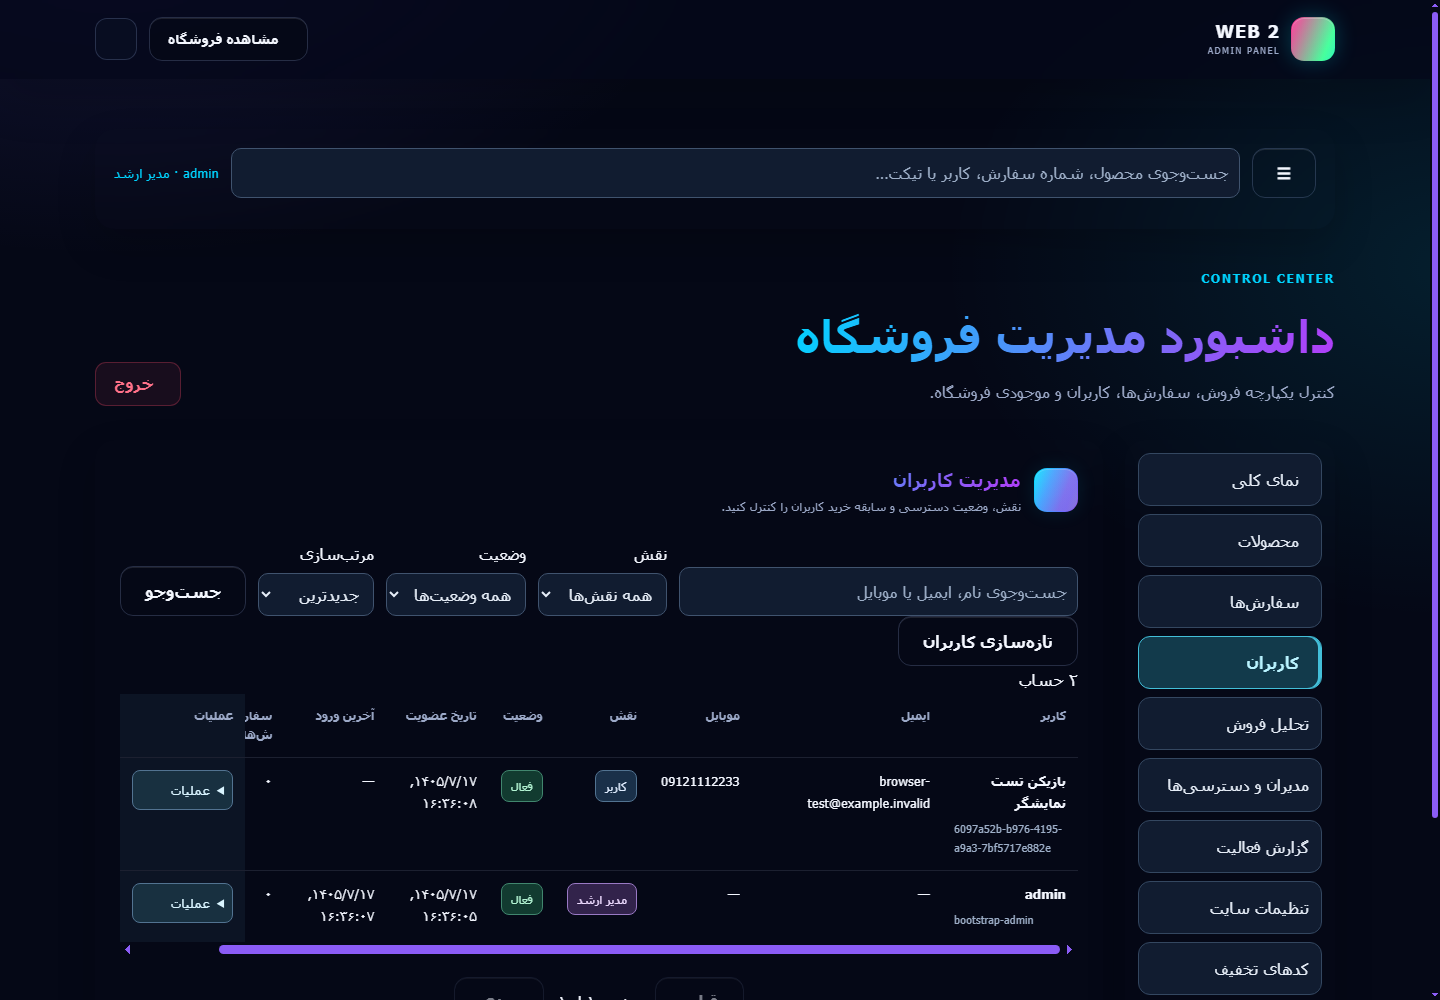
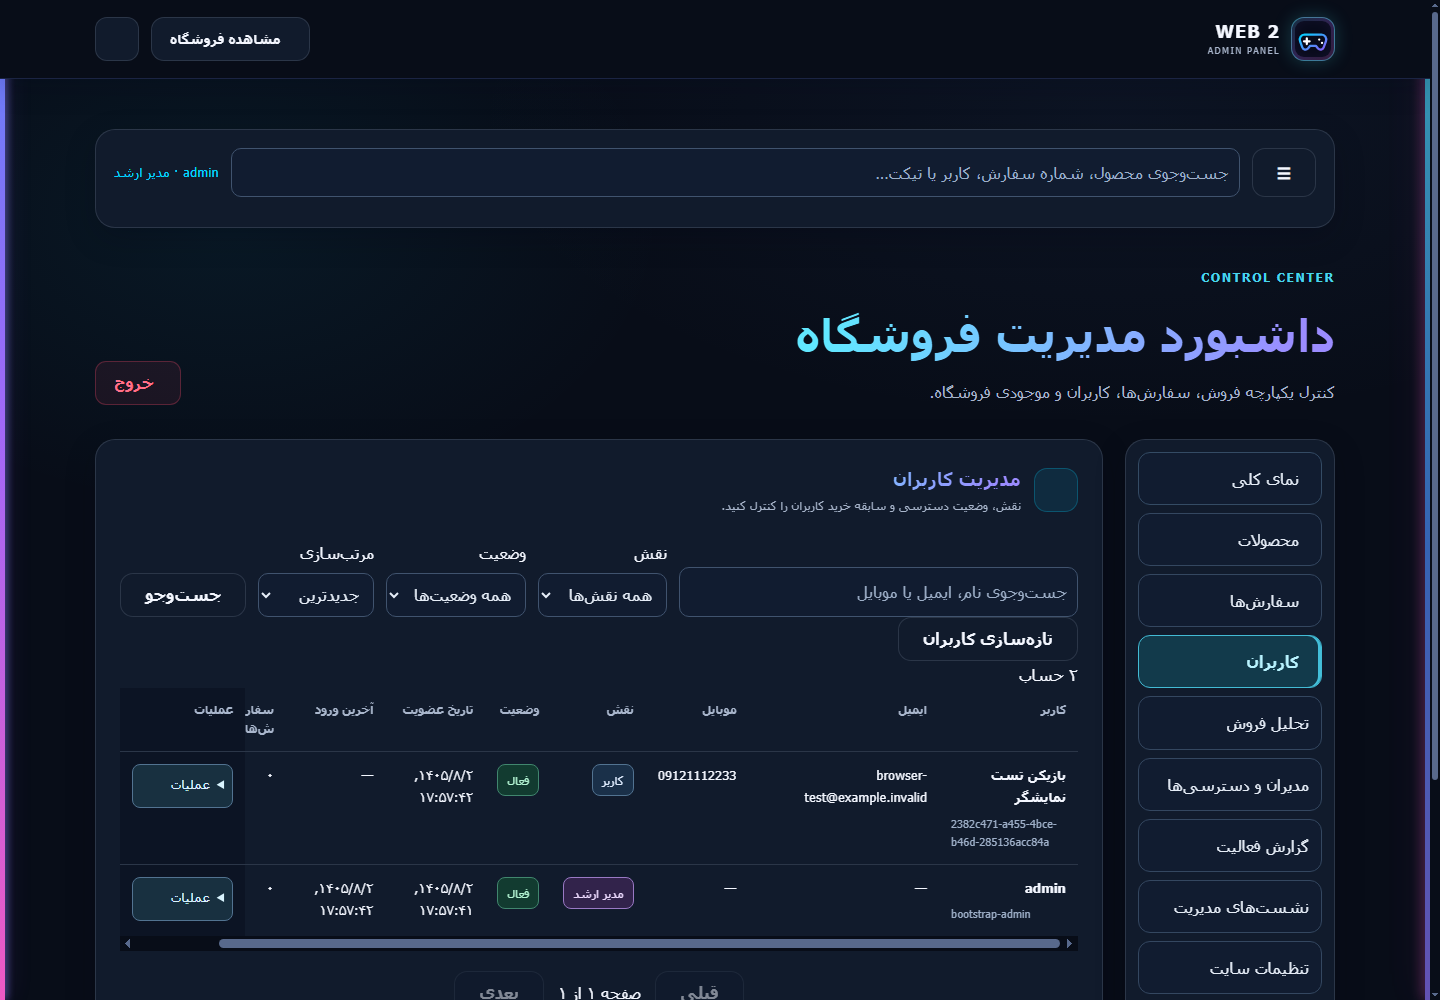
.

diff --git a/style.css b/style.css
@@ -3522,3 +3522,89 @@ button[aria-busy="true"],form[aria-busy="true"] { cursor:progress; }
 .catalog-pagination{grid-column:1/-1;display:flex;justify-content:center;align-items:center;gap:16px;margin:22px 0}
 body.tab-hidden *,body.tab-hidden *::before,body.tab-hidden *::after{animation-play-state:paused!important}
 @media(prefers-reduced-motion:reduce){.page-transition-logo{animation:none!important}}
+
+/* Cinematic gaming atmosphere. Decorations never receive pointer input. */
+:root {
+    --neon-blue:#4c8dff;
+    --neon-pink:#f85bc7;
+    --neon-cyan:#48e6f5;
+    --neon-violet:#a66bff;
+}
+body::before,body::after {
+    position:fixed;
+    z-index:2;
+    top:0;
+    bottom:0;
+    width:5px;
+    content:"";
+    pointer-events:none;
+    background:linear-gradient(180deg,#4c8dff,#a66bff,#f85bc7,#48e6f5,#4c8dff);
+    background-size:100% 240%;
+    box-shadow:0 0 9px #7f80ff,0 0 28px #a66bff55,0 0 65px #48e6f522;
+    animation:rgb-wall-flow 13s linear infinite,rgb-wall-pulse 7s ease-in-out infinite;
+}
+body::before{left:0}body::after{right:0;animation-delay:-6.5s,-3s}
+@keyframes rgb-wall-flow{to{background-position:0 240%}}
+@keyframes rgb-wall-pulse{50%{opacity:.68;box-shadow:0 0 14px #f85bc7,0 0 42px #f85bc766,0 0 75px #48e6f522}}
+body[data-page="home"]{--page-halo:#853af422}
+body[data-page="catalog"],body[data-page="product"]{--page-halo:#167cf422}
+body[data-page="cart"],body[data-page="checkout"]{--page-halo:#11c7d21a}
+body[data-page="profile"]{--page-halo:#bc4cff20}
+body[data-page="admin"],body[data-page="admin-login"]{--page-halo:#4d79c711}
+main{position:relative;isolation:isolate}
+main::before{position:absolute;z-index:-1;inset:0 0 auto;height:min(780px,85vh);content:"";pointer-events:none;background:radial-gradient(ellipse 55% 48% at 78% 5%,var(--page-halo,#853af418),transparent 82%),radial-gradient(ellipse 36% 44% at 16% 18%,#0fbce411,transparent 85%)}
+body.light-theme main::before{opacity:.45}
+.site-header{border-bottom-color:#7188ff30;box-shadow:0 8px 28px #060a1d35}
+.brand-icon{border-color:#64dfff75;background:linear-gradient(135deg,#33d7f529,#a66bff38,#f85bc72a);box-shadow:0 0 18px #48e6f536,inset 0 0 15px #a66bff18;transition:transform .3s ease,box-shadow .3s ease}
+.brand-icon{background:url("img/favicon.svg") center/36px 36px no-repeat,linear-gradient(135deg,#33d7f529,#a66bff38,#f85bc72a)}
+.brand-icon>i{font-size:0}
+.brand:hover .brand-icon{transform:rotate(-8deg) scale(1.08);box-shadow:0 0 24px #48e6f580,0 0 36px #a66bff40}
+.main-nav>a::after{height:3px;background:linear-gradient(90deg,var(--neon-cyan),var(--neon-violet),var(--neon-pink));box-shadow:0 0 12px #a66bff80;transition:transform .28s cubic-bezier(.2,.8,.2,1),opacity .28s}
+.hero{background:radial-gradient(ellipse 42% 65% at 82% 50%,#a83ef122,transparent 82%),radial-gradient(ellipse 42% 55% at 18% 65%,#247aff1c,transparent 80%)}
+.hero-visual{filter:drop-shadow(0 0 28px #905cff32)}
+.controller-icon{display:block;width:min(94%,410px);height:245px;background:url("img/hero-controller.svg") center/contain no-repeat;font-size:0;filter:drop-shadow(0 12px 18px #02051688);transform:translateZ(40px) rotate(-4deg)}
+.floating-chip>i{font-size:0}
+.floating-chip::after{font-size:1.5rem;font-weight:800;line-height:1}
+.chip-one::after{content:"♫"}.chip-two::after{content:"⌨"}.chip-three::after{content:"✦"}
+.hero-content,.hero-visual{animation:cinema-rise .62s cubic-bezier(.2,.8,.2,1) both}
+.hero-visual{animation-delay:.12s}
+@keyframes cinema-rise{from{opacity:0;transform:translateY(18px) scale(.985)}to{opacity:1;transform:none}}
+.section-heading,.page-heading,.page-heading-block,.breadcrumb{animation:cinema-rise .48s ease-out both}
+.section-heading{animation-delay:.06s}
+.promo-banner,.site-managed-banner{position:relative;isolation:isolate;overflow:hidden;border:1px solid #b96cff66;background:linear-gradient(115deg,#25134d,#132949 55%,#2b1747);box-shadow:0 18px 44px #07091d60,0 0 30px #974eff25;transition:transform .28s ease,box-shadow .28s ease}
+.promo-banner::before,.site-managed-banner::before{position:absolute;z-index:-1;inset:0;content:"";pointer-events:none;background:radial-gradient(circle at var(--pointer-x,75%) var(--pointer-y,50%),#fb67d42d,transparent 38%)}
+.promo-banner:hover,.site-managed-banner:hover{transform:translateY(-3px);box-shadow:0 22px 50px #07091d70,0 0 42px #a66bff44}
+.category-card,.glass-panel,.account-panel,.admin-panel{transition:border-color .25s ease,box-shadow .25s ease,transform .25s ease}
+.category-card:hover,.category-card:focus-visible{transform:translateY(-5px) scale(1.015);border-color:#9b6fff99;box-shadow:0 16px 32px #04081666,0 0 22px #9b6fff33}
+.product-card{isolation:isolate;transition:transform .28s cubic-bezier(.2,.8,.2,1),border-color .28s,box-shadow .28s;transform-style:preserve-3d}
+.product-card::before{position:absolute;z-index:4;inset:0;border:1px solid transparent;border-radius:inherit;content:"";pointer-events:none;background:linear-gradient(125deg,var(--neon-cyan),var(--neon-blue),var(--neon-violet),var(--neon-pink),var(--neon-cyan)) border-box;background-size:250% 100%;-webkit-mask:linear-gradient(#fff 0 0) padding-box,linear-gradient(#fff 0 0);-webkit-mask-composite:xor;mask-composite:exclude;opacity:0;transition:opacity .26s}
+.product-card:hover::before,.product-card:focus-within::before{opacity:1;animation:card-rgb 3s linear infinite}
+@keyframes card-rgb{to{background-position:250% 0}}
+.product-card:hover{transform:perspective(1100px) translateY(-6px) rotateX(var(--tilt-x,1deg)) rotateY(var(--tilt-y,-1deg));box-shadow:0 22px 45px #0307168c,0 0 28px #8c62ff36}
+.product-card:focus-within{border-color:var(--neon-cyan);box-shadow:0 0 0 2px #48e6f535,0 18px 36px #03071680}
+.product-card-image{transition:transform .42s cubic-bezier(.2,.8,.2,1)}
+.product-card:hover .product-card-image{transform:scale(1.065)}
+.card-add-button,.primary-button{transition:transform .2s ease,box-shadow .25s ease,filter .25s ease,background-color .25s ease}
+.card-add-button:hover:not(:disabled),.primary-button:hover:not(:disabled){box-shadow:0 8px 25px #3979ff50,0 0 20px #b35cff42;filter:saturate(1.18)}
+button:active:not(:disabled),.primary-button:active,.secondary-button:active{transform:translateY(1px) scale(.97)}
+.card-add-button.is-added{animation:cart-button-pop .42s ease}
+@keyframes cart-button-pop{50%{transform:scale(1.045);box-shadow:0 0 28px #48e6f599}}
+.toast{border-inline-start:3px solid var(--neon-cyan);box-shadow:0 16px 34px #030613aa,0 0 20px #45d9f02b}
+.toast.error{border-inline-start-color:var(--danger)}
+.auth-card,.admin-login-card{border-color:#936bff55;box-shadow:0 24px 55px #03061380,0 0 42px #915dff1c}
+.auth-backdrop{backdrop-filter:blur(5px)}
+.admin-page .glass-panel{box-shadow:0 10px 30px #03061335}
+.admin-page .glass-panel:hover{border-color:#7a91de45}
+.product-skeleton,.skeleton{background:linear-gradient(100deg,#172139 15%,#283b5d 45%,#172139 75%);background-size:200% 100%;animation:skeleton-shimmer 1.6s linear infinite}
+@keyframes skeleton-shimmer{to{background-position:-200% 0}}
+.page-transition-overlay{pointer-events:none;background:radial-gradient(circle at center,#17254de0,#060916eb 67%);transition:opacity .2s ease,visibility 0s linear .2s}
+.page-transition-overlay.is-visible{pointer-events:none;transition:opacity .16s ease}
+.page-transition-card{border-color:#a177ff70;background:linear-gradient(145deg,#121b39,#1e1740);box-shadow:0 20px 55px #03061399,0 0 38px #a66bff4d;transform:translateY(8px) scale(.96);transition:transform .22s ease}
+.page-transition-overlay.is-visible .page-transition-card{transform:none}
+.page-transition-logo{box-shadow:0 0 22px #48e6f555;background:linear-gradient(135deg,#48e6f52c,#a66bff58,#f85bc73a);animation:page-logo-arrive .36s ease both}
+@keyframes page-logo-arrive{from{opacity:0;transform:scale(.75) rotate(-16deg)}to{opacity:1;transform:none}}
+@media(max-width:860px){body::before,body::after{width:3px;box-shadow:0 0 8px #8c72ff88}.product-card:hover{transform:translateY(-2px)}.promo-banner:hover{transform:none}.hero-visual{filter:none}}
+@media(max-width:600px){body::before,body::after{width:2px;opacity:.65;animation:none}.hero-content,.hero-visual,.section-heading,.page-heading,.page-heading-block,.breadcrumb{animation:none}.auth-backdrop{backdrop-filter:none}.product-card::before{display:none}}
+@media(hover:none){.product-card:hover{transform:translateY(-2px);box-shadow:var(--shadow)}.product-card:hover::before{animation:none;opacity:0}.product-card:hover .product-card-image{transform:none}}
+@media(prefers-reduced-motion:reduce){body::before,body::after,.hero-content,.hero-visual,.section-heading,.page-heading,.page-heading-block,.breadcrumb,.page-transition-logo,.product-card::before,.product-skeleton,.skeleton,.card-add-button.is-added{animation:none!important}.product-card,.category-card,.promo-banner,.site-managed-banner,.page-transition-card,.product-card-image{transition:none!important}.product-card:hover,.category-card:hover,.promo-banner:hover,.site-managed-banner:hover{transform:none}}
+@media(forced-colors:active){body::before,body::after,.product-card::before,main::before{display:none}.product-card:focus-within{outline:2px solid Highlight}}

diff --git a/script.js b/script.js
@@ -2238,9 +2238,13 @@ function addToCart(productId) {
         button.dataset.cartOriginalContent = originalContent;
         window.clearTimeout(button.cartFeedbackTimer);
         button.disabled = true;
+        button.classList.remove('is-added');
+        void button.offsetWidth;
+        button.classList.add('is-added');
         button.innerHTML = '<i class="fa-solid fa-check"></i> به سبد اضافه شد';
         button.cartFeedbackTimer = window.setTimeout(() => {
             button.innerHTML = originalContent;
+            button.classList.remove('is-added');
             delete button.dataset.cartOriginalContent;
             button.disabled = !getProductStock(getProduct(product.id) || product).available;
         }, 1400);
@@ -2644,7 +2648,7 @@ function setupProductControls() {
             window.location.assign(control.value === 'all' ? '/products' : '/categories/' + encodeURIComponent(control.value));
             return;
         }
-        if (control.id === 'productSearch') searchTimer = window.setTimeout(()=>{renderProducts();if(control.value.trim())trackEvent('search',{resultsCount:getFilteredProducts().length});},450);
+        if (control.id === 'productSearch') searchTimer = window.setTimeout(()=>{renderProducts();if(control.value.trim())trackEvent('search',{resultsCount:getFilteredProducts().length});},160);
         else {renderProducts();trackEvent('filter_used',control.id==='categoryFilter'&&control.value!=='all'?{category:control.value}:{});}
     }));
 
@@ -3641,7 +3645,7 @@ document.addEventListener('DOMContentLoaded',()=>initializeStore().catch(error=>
         const dots=document.createElement('span');dots.className='page-transition-dots';dots.setAttribute('aria-hidden','true');dots.innerHTML='<i></i><i></i><i></i>';
         card.append(logo,name,dots);overlay.append(card);document.body.append(overlay);return overlay;
     };
-    const show=()=>{build().classList.add('is-visible');clearTimeout(watchdog);watchdog=setTimeout(hide,3000);};
+    const show=()=>{build().classList.add('is-visible');clearTimeout(watchdog);watchdog=setTimeout(hide,1200);};
     const hide=()=>{clearTimeout(watchdog);navigating=false;if(overlay)overlay.classList.remove('is-visible');};
     const ready=()=>{build();requestAnimationFrame(()=>requestAnimationFrame(hide));};
     if(document.readyState==='loading')document.addEventListener('DOMContentLoaded',ready,{once:true});else ready();
@@ -3650,7 +3654,43 @@ document.addEventListener('DOMContentLoaded',()=>initializeStore().catch(error=>
         let target;try{target=new URL(link.href,location.href);}catch{return;}
         if(!['http:','https:'].includes(target.protocol)||target.origin!==location.origin)return;
         const here=new URL(location.href);if(target.pathname===here.pathname&&target.search===here.search)return;
-        event.preventDefault();if(navigating)return;navigating=true;show();setTimeout(()=>location.assign(target.href),80);
+        if(navigating)return;navigating=true;show();
     });
     window.addEventListener('pagehide',show);window.addEventListener('pageshow',hide);window.addEventListener('load',hide);
+})();
+
+/* Lightweight pointer light and card depth. Dynamic cards work through delegation. */
+(()=>{
+    if(typeof window==='undefined'||typeof document==='undefined'||!window.matchMedia)return;
+    const motion=window.matchMedia('(prefers-reduced-motion: reduce)');
+    const fine=window.matchMedia('(hover: hover) and (pointer: fine)');
+    let frame=0,lastEvent;
+    document.addEventListener('pointermove',event=>{
+        if(motion.matches||!fine.matches)return;
+        const target=event.target.closest?.('.product-card,.promo-banner,.site-managed-banner');
+        if(!target)return;
+        lastEvent={target,x:event.clientX,y:event.clientY};
+        if(frame)return;
+        frame=window.requestAnimationFrame(()=>{
+            frame=0;
+            const {target,x,y}=lastEvent;
+            if(!target.isConnected)return;
+            const rect=target.getBoundingClientRect();
+            const px=Math.max(0,Math.min(1,(x-rect.left)/rect.width));
+            const py=Math.max(0,Math.min(1,(y-rect.top)/rect.height));
+            target.style.setProperty('--pointer-x',(px*100).toFixed(1)+'%');
+            target.style.setProperty('--pointer-y',(py*100).toFixed(1)+'%');
+            if(target.classList.contains('product-card')){
+                target.style.setProperty('--tilt-x',((.5-py)*3).toFixed(2)+'deg');
+                target.style.setProperty('--tilt-y',((px-.5)*3).toFixed(2)+'deg');
+            }
+        });
+    },{passive:true});
+    document.addEventListener('pointerout',event=>{
+        const card=event.target.closest?.('.product-card');
+        if(card&&!card.contains(event.relatedTarget)){
+            card.style.removeProperty('--tilt-x');
+            card.style.removeProperty('--tilt-y');
+        }
+    },{passive:true});
 })();

diff --git a/catalog.html b/catalog.html
@@ -13,7 +13,7 @@
     <link rel="preconnect" href="https://fonts.gstatic.com" crossorigin>
     <link href="https://fonts.googleapis.com/css2?family=Vazirmatn:wght@400;500;600;700;800;900&display=swap" rel="stylesheet">
     <link rel="stylesheet" href="https://cdnjs.cloudflare.com/ajax/libs/font-awesome/6.7.2/css/all.min.css">
-    <link rel="stylesheet" href="/style.css?v=f5b42c57ab798af9">
+    <link rel="stylesheet" href="/style.css?v=0c735760c2847fc4">
     <link rel="stylesheet" href="/css/rgb-text.css?v=e4a270a35e255916">
 </head>
 <body data-page="catalog" data-category="" data-server-seo="true">
@@ -50,6 +50,6 @@
     </main>
     <footer class="site-footer compact-footer"><div class="container footer-inner"><p>© ۲۰۲۶ WEB 2 — فروشگاه نمایشی تجهیزات گیمینگ.</p><a href="/">بازگشت به خانه</a></div></footer>
     <div class="toast-container" id="toastContainer" aria-live="polite" aria-atomic="true"></div>
-    <script src="/js/safe-url.js?v=8a4e6ba3632f381b"></script><script src="/js/api-config.js?v=a0de1bf4a2df75df"></script><script src="/js/session.js?v=eb17a1b68af430c2"></script><script src="/js/site.js?v=6cf24f98869fd3c2"></script><script src="/js/wishlist.js?v=82b037d2da2f8760"></script><script src="/script.js?v=4bcdc7f1a229b089"></script>
+    <script src="/js/safe-url.js?v=8a4e6ba3632f381b"></script><script src="/js/api-config.js?v=a0de1bf4a2df75df"></script><script src="/js/session.js?v=eb17a1b68af430c2"></script><script src="/js/site.js?v=6cf24f98869fd3c2"></script><script src="/js/wishlist.js?v=82b037d2da2f8760"></script><script src="/script.js?v=776c764910c5c081"></script>
 </body>
 </html>

diff --git a/admin.html b/admin.html
@@ -12,7 +12,7 @@
     <link rel="preconnect" href="https://fonts.gstatic.com" crossorigin>
     <link href="https://fonts.googleapis.com/css2?family=Vazirmatn:wght@400;500;600;700;800;900&display=swap" rel="stylesheet">
     <link rel="stylesheet" href="https://cdnjs.cloudflare.com/ajax/libs/font-awesome/6.7.2/css/all.min.css">
-    <link rel="stylesheet" href="style.css?v=f5b42c57ab798af9"><link rel="stylesheet" href="css/admin.css?v=741b5c4559af438e">
+    <link rel="stylesheet" href="style.css?v=0c735760c2847fc4"><link rel="stylesheet" href="css/admin.css?v=741b5c4559af438e">
     <link rel="stylesheet" href="css/rgb-text.css?v=e4a270a35e255916">
 </head>
 <body data-page="admin" class="admin-page">
@@ -145,7 +145,7 @@
     <script src="js/invoice.js?v=d3e125a4f3bd8bbe"></script>
     <script src="js/api-config.js?v=a0de1bf4a2df75df"></script><script src="js/session.js?v=eb17a1b68af430c2"></script>
     <script src="js/wishlist.js?v=82b037d2da2f8760"></script>
-    <script src="js/admin-console.js?v=8051fe3738f094bf"></script><script src="js/admin-actions.js?v=4f5aefeb0aada36c"></script><script src="script.js?v=4bcdc7f1a229b089"></script>
+    <script src="js/admin-console.js?v=ee89815d615ebeb9"></script><script src="js/admin-actions.js?v=4f5aefeb0aada36c"></script><script src="script.js?v=776c764910c5c081"></script>
     <script src="js/admin.js?v=3671450bcdd8f047"></script>
     <script src="js/admin-support.js?v=c4d1bb985c0b1161"></script>
     <script src="js/admin-users.js?v=ff0f13d146275290"></script>

diff --git a/profile.html b/profile.html
@@ -13,7 +13,7 @@
     <link rel="preconnect" href="https://fonts.gstatic.com" crossorigin>
     <link href="https://fonts.googleapis.com/css2?family=Vazirmatn:wght@400;500;600;700;800;900&display=swap" rel="stylesheet">
     <link rel="stylesheet" href="https://cdnjs.cloudflare.com/ajax/libs/font-awesome/6.7.2/css/all.min.css">
-    <link rel="stylesheet" href="style.css?v=f5b42c57ab798af9"><link rel="stylesheet" href="css/admin.css?v=741b5c4559af438e">
+    <link rel="stylesheet" href="style.css?v=0c735760c2847fc4"><link rel="stylesheet" href="css/admin.css?v=741b5c4559af438e">
     <link rel="stylesheet" href="css/account.css?v=0a0ce9d424b4cc10">
     <link rel="stylesheet" href="css/rgb-text.css?v=e4a270a35e255916">
 </head>
@@ -47,7 +47,7 @@
     <script src="js/safe-url.js?v=8a4e6ba3632f381b"></script>
     <script src="js/api-config.js?v=a0de1bf4a2df75df"></script><script src="js/session.js?v=eb17a1b68af430c2"></script><script src="js/site.js?v=6cf24f98869fd3c2"></script>
     <script src="js/wishlist.js?v=82b037d2da2f8760"></script>
-    <script src="script.js?v=4bcdc7f1a229b089"></script>
+    <script src="script.js?v=776c764910c5c081"></script>
     <script src="js/profile.js?v=6d6d3a85d8654969"></script>
 </body>
 </html>

diff --git a/checkout.html b/checkout.html
@@ -13,7 +13,7 @@
     <link rel="preconnect" href="https://fonts.gstatic.com" crossorigin>
     <link href="https://fonts.googleapis.com/css2?family=Vazirmatn:wght@400;500;600;700;800;900&display=swap" rel="stylesheet">
     <link rel="stylesheet" href="https://cdnjs.cloudflare.com/ajax/libs/font-awesome/6.7.2/css/all.min.css">
-    <link rel="stylesheet" href="style.css?v=f5b42c57ab798af9"><link rel="stylesheet" href="css/admin.css?v=741b5c4559af438e">
+    <link rel="stylesheet" href="style.css?v=0c735760c2847fc4"><link rel="stylesheet" href="css/admin.css?v=741b5c4559af438e">
     <style>
         .checkout-wizard { display:grid; gap:22px; }
         .checkout-progress { display:grid; grid-template-columns:repeat(5,minmax(0,1fr)); gap:8px; margin-bottom:2px; }
@@ -175,6 +175,6 @@
     <script src="js/invoice.js?v=d3e125a4f3bd8bbe"></script>
     <script src="js/api-config.js?v=a0de1bf4a2df75df"></script><script src="js/session.js?v=eb17a1b68af430c2"></script><script src="js/site.js?v=6cf24f98869fd3c2"></script>
     <script src="js/wishlist.js?v=82b037d2da2f8760"></script>
-    <script src="script.js?v=4bcdc7f1a229b089"></script>
+    <script src="script.js?v=776c764910c5c081"></script>
 </body>
 </html>

diff --git a/product.html b/product.html
@@ -18,7 +18,7 @@
     <link rel="preconnect" href="https://fonts.gstatic.com" crossorigin>
     <link href="https://fonts.googleapis.com/css2?family=Vazirmatn:wght@400;500;600;700;800;900&display=swap" rel="stylesheet">
     <link rel="stylesheet" href="https://cdnjs.cloudflare.com/ajax/libs/font-awesome/6.7.2/css/all.min.css">
-    <link rel="stylesheet" href="style.css?v=f5b42c57ab798af9"><link rel="stylesheet" href="css/admin.css?v=741b5c4559af438e">
+    <link rel="stylesheet" href="style.css?v=0c735760c2847fc4"><link rel="stylesheet" href="css/admin.css?v=741b5c4559af438e">
     <link rel="stylesheet" href="css/rgb-text.css?v=e4a270a35e255916">
 </head>
 <body data-page="product">
@@ -60,6 +60,6 @@
     <script src="js/safe-url.js?v=8a4e6ba3632f381b"></script>
     <script src="js/api-config.js?v=a0de1bf4a2df75df"></script><script src="js/session.js?v=eb17a1b68af430c2"></script><script src="js/site.js?v=6cf24f98869fd3c2"></script>
     <script src="js/wishlist.js?v=82b037d2da2f8760"></script>
-    <script src="script.js?v=4bcdc7f1a229b089"></script>
+    <script src="script.js?v=776c764910c5c081"></script>
 </body>
 </html>

diff --git a/cart.html b/cart.html
@@ -13,7 +13,7 @@
     <link rel="preconnect" href="https://fonts.gstatic.com" crossorigin>
     <link href="https://fonts.googleapis.com/css2?family=Vazirmatn:wght@400;500;600;700;800;900&display=swap" rel="stylesheet">
     <link rel="stylesheet" href="https://cdnjs.cloudflare.com/ajax/libs/font-awesome/6.7.2/css/all.min.css">
-    <link rel="stylesheet" href="style.css?v=f5b42c57ab798af9"><link rel="stylesheet" href="css/admin.css?v=741b5c4559af438e">
+    <link rel="stylesheet" href="style.css?v=0c735760c2847fc4"><link rel="stylesheet" href="css/admin.css?v=741b5c4559af438e">
     <link rel="stylesheet" href="css/rgb-text.css?v=e4a270a35e255916">
 </head>
 <body data-page="cart">
@@ -92,6 +92,6 @@
     <script src="js/safe-url.js?v=8a4e6ba3632f381b"></script>
     <script src="js/api-config.js?v=a0de1bf4a2df75df"></script><script src="js/session.js?v=eb17a1b68af430c2"></script><script src="js/site.js?v=6cf24f98869fd3c2"></script>
     <script src="js/wishlist.js?v=82b037d2da2f8760"></script>
-    <script src="script.js?v=4bcdc7f1a229b089"></script>
+    <script src="script.js?v=776c764910c5c081"></script>
 </body>
 </html>

diff --git a/index.html b/index.html
@@ -19,7 +19,7 @@
     <link rel="preconnect" href="https://fonts.gstatic.com" crossorigin>
     <link href="https://fonts.googleapis.com/css2?family=Vazirmatn:wght@400;500;600;700;800;900&display=swap" rel="stylesheet">
     <link rel="stylesheet" href="https://cdnjs.cloudflare.com/ajax/libs/font-awesome/6.7.2/css/all.min.css">
-    <link rel="stylesheet" href="style.css?v=f5b42c57ab798af9">
+    <link rel="stylesheet" href="style.css?v=0c735760c2847fc4">
     <link rel="stylesheet" href="css/intro.css?v=0c1d8f92b4a69d24">
     <link rel="stylesheet" href="css/rgb-text.css?v=e4a270a35e255916">
 </head>
@@ -253,6 +253,6 @@
     <script src="js/intro.js?v=d6aa4e1416c8fd24"></script>
     <script src="js/site.js?v=6cf24f98869fd3c2"></script>
     <script src="js/wishlist.js?v=82b037d2da2f8760"></script>
-    <script src="script.js?v=4bcdc7f1a229b089"></script>
+    <script src="script.js?v=776c764910c5c081"></script>
 </body>
 </html>

diff --git a/admin-login.html b/admin-login.html
@@ -12,7 +12,7 @@
     <link rel="preconnect" href="https://fonts.gstatic.com" crossorigin>
     <link href="https://fonts.googleapis.com/css2?family=Vazirmatn:wght@400;500;600;700;800;900&display=swap" rel="stylesheet">
     <link rel="stylesheet" href="https://cdnjs.cloudflare.com/ajax/libs/font-awesome/6.7.2/css/all.min.css">
-    <link rel="stylesheet" href="style.css?v=f5b42c57ab798af9">
+    <link rel="stylesheet" href="style.css?v=0c735760c2847fc4">
     <link rel="stylesheet" href="css/admin.css?v=741b5c4559af438e">
     <link rel="stylesheet" href="css/rgb-text.css?v=e4a270a35e255916">
 </head>

diff --git a/404.html b/404.html
@@ -8,7 +8,7 @@
     <meta name="robots" content="noindex,nofollow">
     <meta name="theme-color" content="#050816">
     <link rel="icon" href="/img/favicon.svg" type="image/svg+xml">
-    <link rel="stylesheet" href="/style.css?v=f5b42c57ab798af9">
+    <link rel="stylesheet" href="/style.css?v=0c735760c2847fc4">
 </head>
 <body>
     <a class="skip-link" href="#main-content">رفتن به محتوای اصلی</a>
